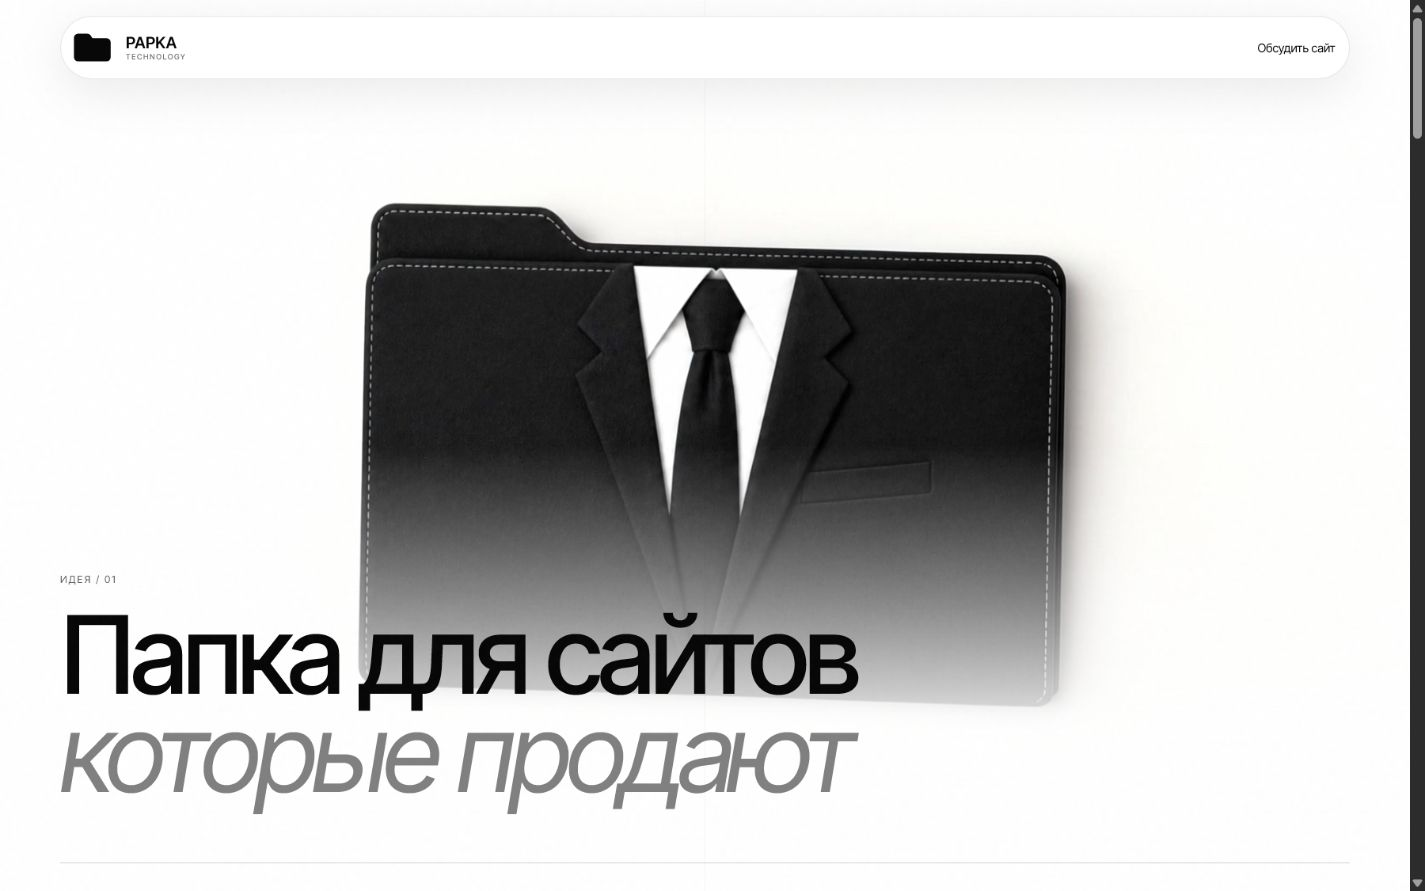
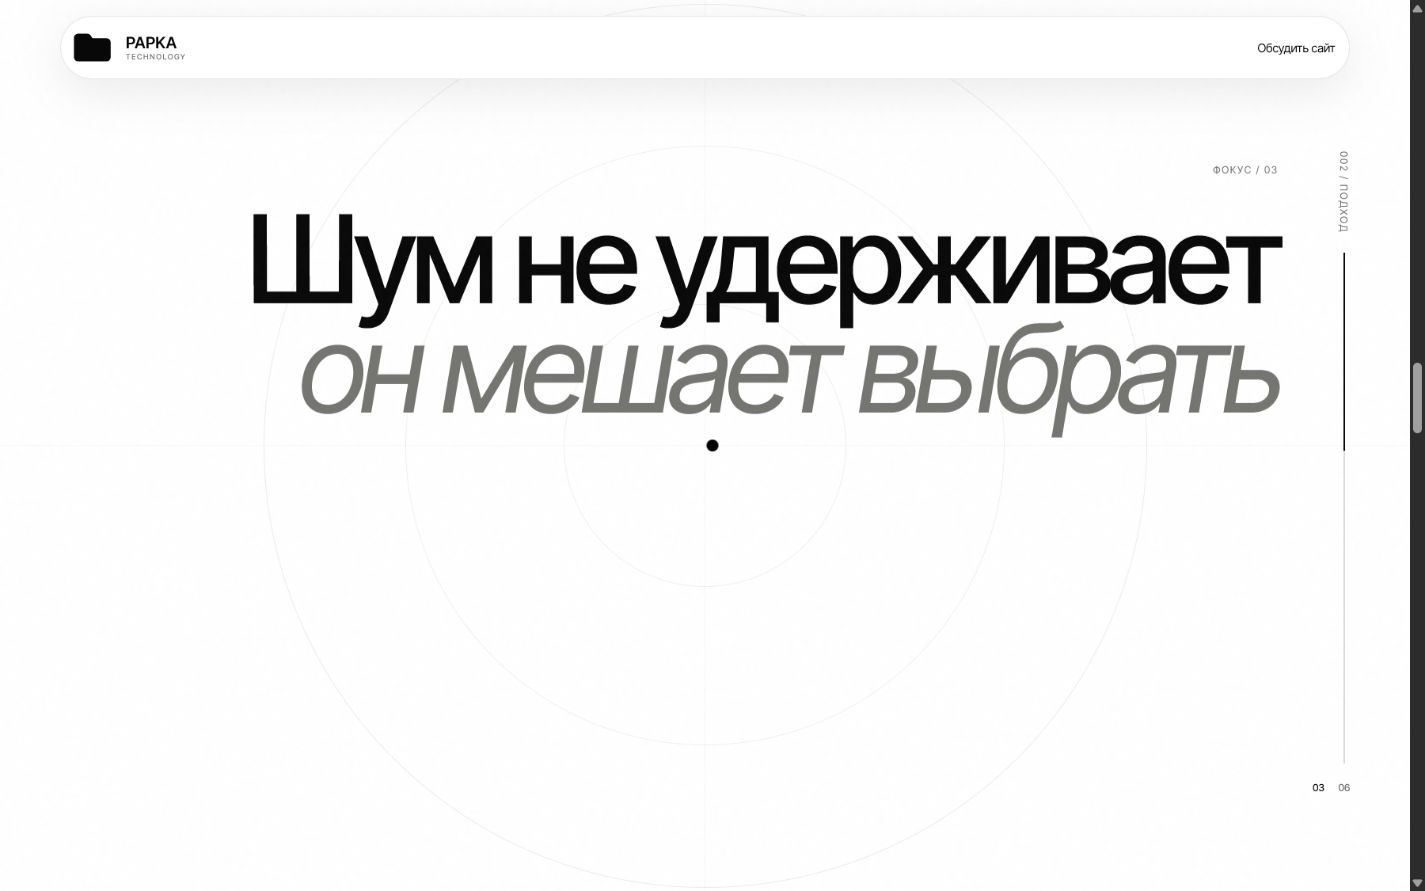
Create six-scene scroll manifesto

diff --git a/styles.css b/styles.css
@@ -463,45 +463,149 @@ button:focus-visible {
   transform-origin: left;
 }
 
-.approach {
-  position: relative;
-  padding: clamp(110px, 15vw, 220px) 0 clamp(130px, 17vw, 260px);
-  background: #fff;
-}
-
-.approach-top {
-  display: grid;
-  grid-template-columns: .7fr 1.3fr;
-  gap: 40px;
-  align-items: start;
-  padding-top: 18px;
-  border-top: 1px solid var(--ink);
-}
-
-.approach-top span,
-.services-head > span {
+.services-head > span,
+.manifesto-scene > span,
+.manifesto-meta > span {
   color: var(--muted);
   font-size: 10px;
   text-transform: uppercase;
   letter-spacing: .14em;
 }
 
-.approach-top p {
+.manifesto {
+  position: relative;
+  height: 620vh;
+  background: #fff;
+}
+
+.manifesto-stage {
+  position: sticky;
+  z-index: 1;
+  top: 0;
+  height: 100vh;
+  min-height: 620px;
+  overflow: hidden;
+  background: #fff;
+}
+
+.manifesto-grid {
+  position: absolute;
+  inset: 0;
+  opacity: .42;
+  background-image:
+    linear-gradient(90deg, transparent calc(50% - .5px), rgba(8, 8, 8, .08) 50%, transparent calc(50% + .5px)),
+    linear-gradient(0deg, transparent calc(50% - .5px), rgba(8, 8, 8, .06) 50%, transparent calc(50% + .5px));
+}
+
+.manifesto-orbit {
+  position: absolute;
+  width: min(62vw, 930px);
+  aspect-ratio: 1;
+  top: 50%;
+  left: 50%;
+  border: 1px solid rgba(8, 8, 8, .08);
+  border-radius: 50%;
+  transform: translate(-50%, -50%);
+}
+
+.manifesto-orbit::before,
+.manifesto-orbit::after {
+  content: "";
+  position: absolute;
+  inset: 16%;
+  border: 1px solid rgba(8, 8, 8, .06);
+  border-radius: inherit;
+}
+
+.manifesto-orbit::after { inset: 34%; }
+
+.manifesto-canvas {
+  position: absolute;
+  inset: 0;
+  width: min(1440px, calc(100% - var(--pad) * 2));
+  margin-inline: auto;
+}
+
+.manifesto-scene {
+  position: absolute;
+  z-index: 2;
+  width: min(1120px, 78vw);
+  opacity: 0;
+  pointer-events: none;
+  will-change: transform, opacity;
+}
+
+.manifesto-scene.is-active { pointer-events: auto; }
+
+.manifesto-scene > span {
+  display: block;
+  margin-bottom: clamp(18px, 2vw, 30px);
+}
+
+.manifesto-scene :is(h2, p) {
   margin: 0;
-  font-size: clamp(20px, 2.1vw, 34px);
-  line-height: 1.05;
-  letter-spacing: -.035em;
-}
-
-.approach-title {
-  margin: clamp(100px, 14vw, 210px) 0 0;
-  font-size: clamp(60px, 9vw, 148px);
-  line-height: .96;
-  letter-spacing: -.035em;
+  font-size: clamp(64px, 8.6vw, 138px);
   font-weight: 500;
+  line-height: .89;
+  letter-spacing: -.052em;
 }
 
-.approach-title em { display: inline-block; margin-left: .36em; color: #72726d; }
+.manifesto-scene :is(h2, p) em {
+  display: block;
+  color: #747470;
+}
+
+.scene-top-left { top: clamp(130px, 17vh, 180px); left: 0; }
+.scene-top-right { top: clamp(138px, 18vh, 190px); right: clamp(54px, 5vw, 80px); text-align: right; }
+.scene-bottom-left { bottom: clamp(90px, 12vh, 135px); left: 0; }
+.scene-bottom-right { right: clamp(54px, 5vw, 80px); bottom: clamp(90px, 12vh, 135px); text-align: right; }
+.scene-inset { width: min(980px, 72vw); }
+
+.manifesto-meta {
+  position: absolute;
+  z-index: 3;
+  top: clamp(130px, 17vh, 180px);
+  right: max(22px, calc((100vw - 1440px) / 2 + var(--pad)));
+  bottom: clamp(80px, 11vh, 120px);
+  display: grid;
+  grid-template-rows: auto 1fr auto;
+  grid-template-columns: auto auto;
+  column-gap: 14px;
+  pointer-events: none;
+}
+
+.manifesto-meta > span { grid-column: 1 / -1; white-space: nowrap; writing-mode: vertical-rl; }
+
+.manifesto-track {
+  grid-row: 2;
+  grid-column: 2;
+  justify-self: center;
+  width: 1px;
+  margin-block: 20px;
+  overflow: hidden;
+  background: rgba(8, 8, 8, .15);
+}
+
+.manifesto-track i {
+  display: block;
+  width: 100%;
+  height: 100%;
+  background: var(--ink);
+  transform: scaleY(0);
+  transform-origin: top;
+}
+
+.manifesto-meta b,
+.manifesto-meta small {
+  align-self: end;
+  color: var(--ink);
+  font-size: 10px;
+  font-weight: 500;
+  line-height: 1;
+}
+
+.manifesto-meta b { grid-row: 3; grid-column: 1; }
+.manifesto-meta small { grid-row: 3; grid-column: 2; color: var(--muted); }
 
 .services { padding: 0 0 clamp(130px, 16vw, 240px); background: #fff; }
 
@@ -771,8 +875,7 @@ button:focus-visible {
   .hero-copy h1 { font-size: clamp(52px, 8vw, 76px); }
   .story-progress { display: none; }
   .attention-copy :is(h1, h2) { font-size: clamp(54px, 9vw, 90px); }
-  .approach-top, .services-head { grid-template-columns: 1fr; }
-  .approach-top p { margin-top: 55px; }
+  .services-head { grid-template-columns: 1fr; }
   .service { grid-template-columns: 54px 1fr; gap: 20px; padding: 42px 0; }
   .service > span { grid-row: 1 / span 2; padding-top: 6px; }
   .service p { margin-top: 4px; }
@@ -915,18 +1018,34 @@ button:focus-visible {
     bottom: calc(82px + env(safe-area-inset-bottom));
   }
 
-  .approach { padding: 100px 0 130px; }
-  .approach-top { gap: 0; }
-  .approach-top p { margin-top: 42px; font-size: 24px; }
-
-  .approach-title {
-    margin: 110px 0 0;
-    font-size: clamp(50px, 14vw, 72px);
-    line-height: .97;
-    letter-spacing: -.034em;
+  .manifesto { height: 560dvh; }
+  .manifesto-stage { height: 100dvh; min-height: 540px; }
+  .manifesto-grid { opacity: .28; }
+  .manifesto-orbit { width: 120vw; }
+  .manifesto-canvas { width: calc(100% - 40px); }
+  .manifesto-scene { width: calc(100% - 18px); }
+  .manifesto-scene > span { margin-bottom: 16px; font-size: 9px; }
+  .manifesto-scene :is(h2, p) {
+    font-size: clamp(44px, 12.6vw, 58px);
+    line-height: .94;
+    letter-spacing: -.043em;
   }
-
-  .approach-title em { display: block; margin: .1em 0 0 .12em; }
+  .scene-top-left,
+  .scene-top-right { top: max(128px, 17dvh); }
+  .scene-bottom-left,
+  .scene-bottom-right { bottom: max(148px, 18dvh); }
+  .scene-top-right,
+  .scene-bottom-right { right: 18px; }
+  .scene-top-left,
+  .scene-bottom-left { left: 0; }
+  .scene-inset { width: calc(100% - 36px); }
+  .manifesto-meta {
+    top: max(116px, 15dvh);
+    right: 13px;
+    bottom: max(62px, 9dvh);
+    opacity: .7;
+  }
+  .manifesto-meta > span { display: none; }
 
   .services { padding-bottom: 140px; }
   .services-head { gap: 38px; padding-bottom: 28px; }
@@ -1118,4 +1237,16 @@ button:focus-visible {
   html { scroll-behavior: auto; }
   *, *::before, *::after { animation: none !important; transition-duration: .01ms !important; }
   .reveal { opacity: 1; transform: none; }
+  .manifesto { height: auto; padding: 110px 0; }
+  .manifesto-stage { position: relative; height: auto; min-height: 0; overflow: visible; }
+  .manifesto-grid, .manifesto-orbit, .manifesto-meta { display: none; }
+  .manifesto-canvas { position: relative; display: grid; gap: 100px; }
+  .manifesto-scene {
+    position: relative;
+    inset: auto;
+    width: 100%;
+    opacity: 1 !important;
+    transform: none !important;
+    text-align: left;
+  }
 }

diff --git a/index.html b/index.html
@@ -8,7 +8,7 @@
   <meta name="theme-color" content="#ffffff">
   <title>Папка для сайтов, которые продают</title>
   <link rel="icon" href="logo-papka.svg?v=3" type="image/svg+xml">
-  <link rel="stylesheet" href="styles.css?v=20260715-8">
+  <link rel="stylesheet" href="styles.css?v=20260715-9">
 </head>
 <body>
   <a class="skip-link" href="#main">Перейти к содержанию</a>
@@ -52,15 +52,48 @@
       </div>
     </section>
 
-    <section class="approach" id="approach">
-      <div class="wrap">
-        <div class="approach-top reveal">
+    <section class="manifesto" id="approach" aria-label="Как мы создаём сайты, которые продают" data-manifesto>
+      <div class="manifesto-stage">
+        <div class="manifesto-grid" aria-hidden="true"></div>
+        <div class="manifesto-orbit" aria-hidden="true"></div>
+
+        <div class="manifesto-meta" aria-hidden="true">
           <span>002 / Подход</span>
-          <p>От первого экрана<br>до нужного действия</p>
+          <div class="manifesto-track"><i data-manifesto-progress></i></div>
+          <b data-manifesto-counter>01</b><small>06</small>
         </div>
 
-        <h2 class="approach-title reveal">Каждый скролл ведёт<br><em>к следующему шагу</em></h2>
+        <div class="manifesto-canvas">
+          <article class="manifesto-scene scene-top-left is-active" data-manifesto-scene>
+            <span>Понимание / 01</span>
+            <h2>Мы понимаем<br><em>какие сайты продают</em></h2>
+          </article>
 
+          <article class="manifesto-scene scene-bottom-right" data-manifesto-scene aria-hidden="true">
+            <span>Мера / 02</span>
+            <p>Больше дизайна<br><em>не значит больше смысла</em></p>
+          </article>
+
+          <article class="manifesto-scene scene-top-right" data-manifesto-scene aria-hidden="true">
+            <span>Фокус / 03</span>
+            <p>Шум не удерживает<br><em>он мешает выбрать</em></p>
+          </article>
+
+          <article class="manifesto-scene scene-bottom-left" data-manifesto-scene aria-hidden="true">
+            <span>Ценность / 04</span>
+            <p>Сильный экран<br><em>сразу объясняет ценность</em></p>
+          </article>
+
+          <article class="manifesto-scene scene-top-left scene-inset" data-manifesto-scene aria-hidden="true">
+            <span>Движение / 05</span>
+            <p>Анимация ведёт<br><em>а не отвлекает</em></p>
+          </article>
+
+          <article class="manifesto-scene scene-bottom-right scene-inset" data-manifesto-scene aria-hidden="true">
+            <span>Результат / 06</span>
+            <p>Каждый блок ведёт<br><em>к нужному действию</em></p>
+          </article>
+        </div>
       </div>
     </section>
 
@@ -129,6 +162,6 @@
     <button type="button" data-cookie-accept>Понятно</button>
   </aside>
 
-  <script src="script.js?v=20260715-2"></script>
+  <script src="script.js?v=20260715-3"></script>
 </body>
 </html>

diff --git a/script.js b/script.js
@@ -11,6 +11,10 @@ const attentionStory = document.querySelector('[data-attention-story]');
 const attentionVideo = document.querySelector('[data-attention-video]');
 const attentionCopies = [...document.querySelectorAll('[data-attention-copy]')];
 const attentionProgress = document.querySelector('[data-attention-progress]');
+const manifesto = document.querySelector('[data-manifesto]');
+const manifestoScenes = [...document.querySelectorAll('[data-manifesto-scene]')];
+const manifestoProgress = document.querySelector('[data-manifesto-progress]');
+const manifestoCounter = document.querySelector('[data-manifesto-counter]');
 
 const createVideoScrubber = (video, maxDuration = Infinity) => {
   if (!video) return () => {};
@@ -113,6 +117,41 @@ const updateAttentionStory = () => {
   attentionProgress.style.transform = `scaleX(${progress})`;
 };
 
+const updateManifestoStory = () => {
+  if (!manifesto || !manifestoScenes.length) return;
+
+  if (reducedMotion) {
+    manifestoScenes.forEach((scene) => {
+      scene.style.opacity = 1;
+      scene.style.transform = 'none';
+      scene.classList.add('is-active');
+      scene.setAttribute('aria-hidden', 'false');
+    });
+    return;
+  }
+
+  const progress = sectionProgress(manifesto);
+  const position = progress * (manifestoScenes.length - 1);
+  const activeIndex = Math.round(position);
+
+  manifestoScenes.forEach((scene, index) => {
+    const delta = index - position;
+    const distance = Math.abs(delta);
+    const isCurrent = index === activeIndex;
+    const opacity = isCurrent ? 1 - map(distance, .34, .68) : 0;
+    const shift = delta >= 0 ? 54 * clamp(distance) : -38 * clamp(distance);
+    const scale = lerp(.985, 1, opacity);
+
+    scene.style.opacity = opacity.toFixed(3);
+    scene.style.transform = `translate3d(0, ${shift.toFixed(1)}px, 0) scale(${scale.toFixed(4)})`;
+    scene.classList.toggle('is-active', isCurrent);
+    scene.setAttribute('aria-hidden', isCurrent ? 'false' : 'true');
+  });
+
+  if (manifestoProgress) manifestoProgress.style.transform = `scaleY(${progress})`;
+  if (manifestoCounter) manifestoCounter.textContent = String(activeIndex + 1).padStart(2, '0');
+};
+
 const updateHeaderTone = () => {
   const dark = [...document.querySelectorAll('.dark-section')].some((section) => {
     const rect = section.getBoundingClientRect();
@@ -126,6 +165,7 @@ let ticking = false;
 const updatePage = () => {
   ticking = false;
   updateAttentionStory();
+  updateManifestoStory();
   updateHeaderTone();
 };
 